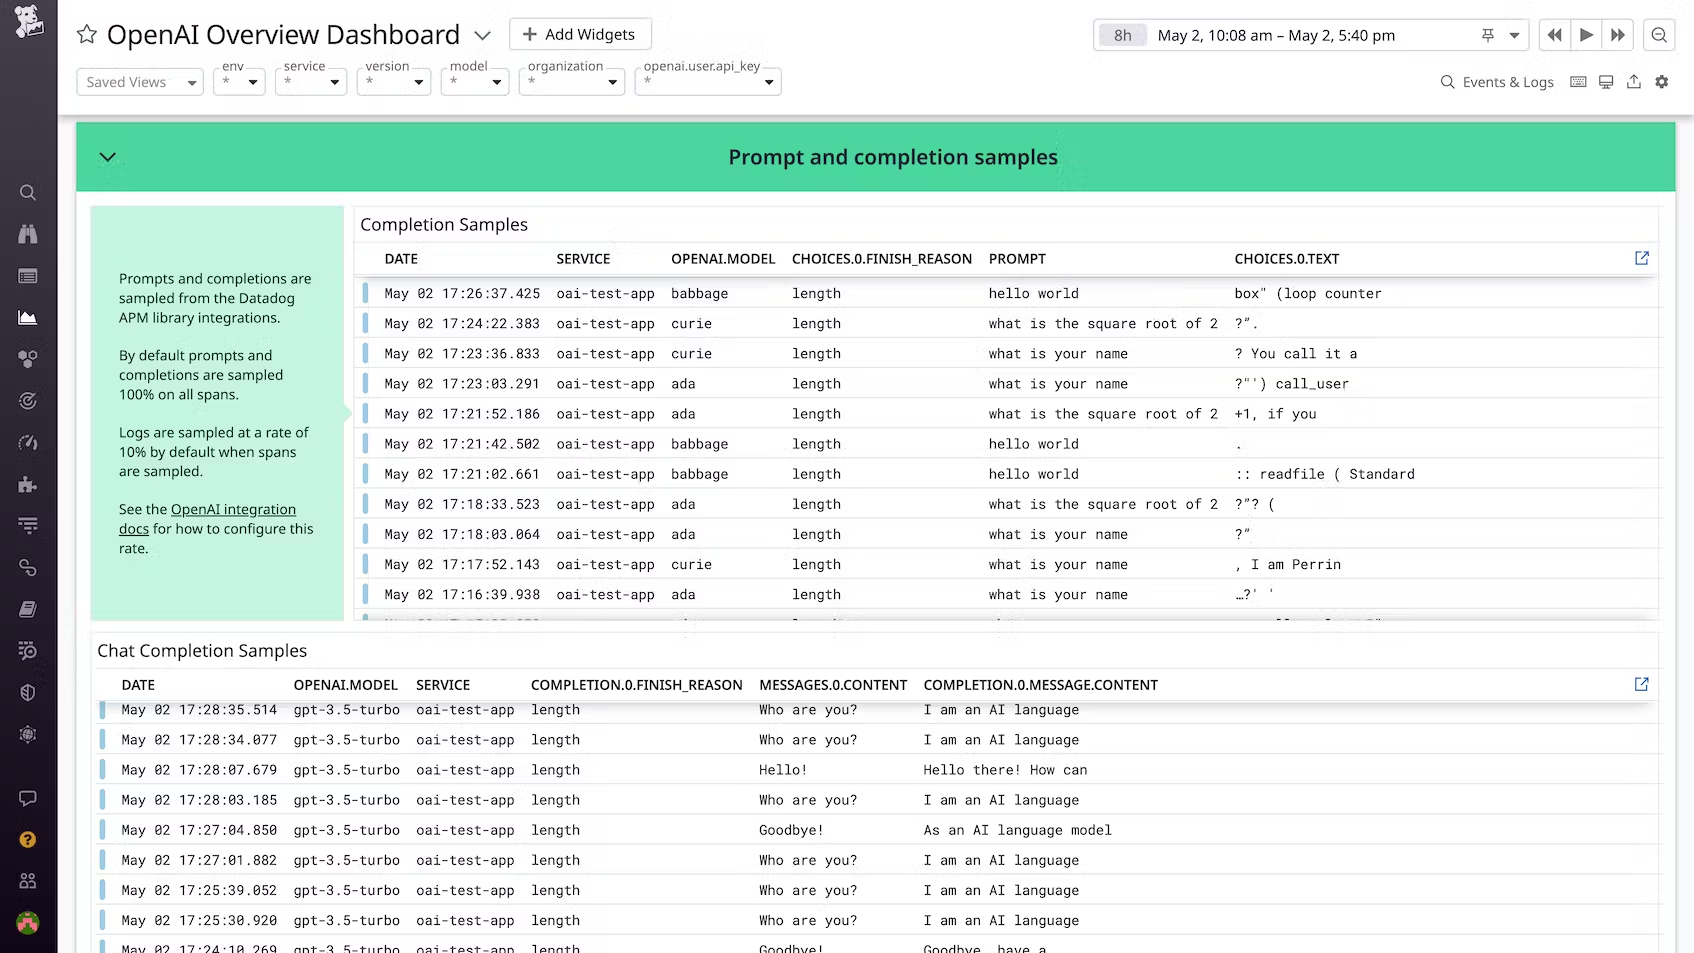
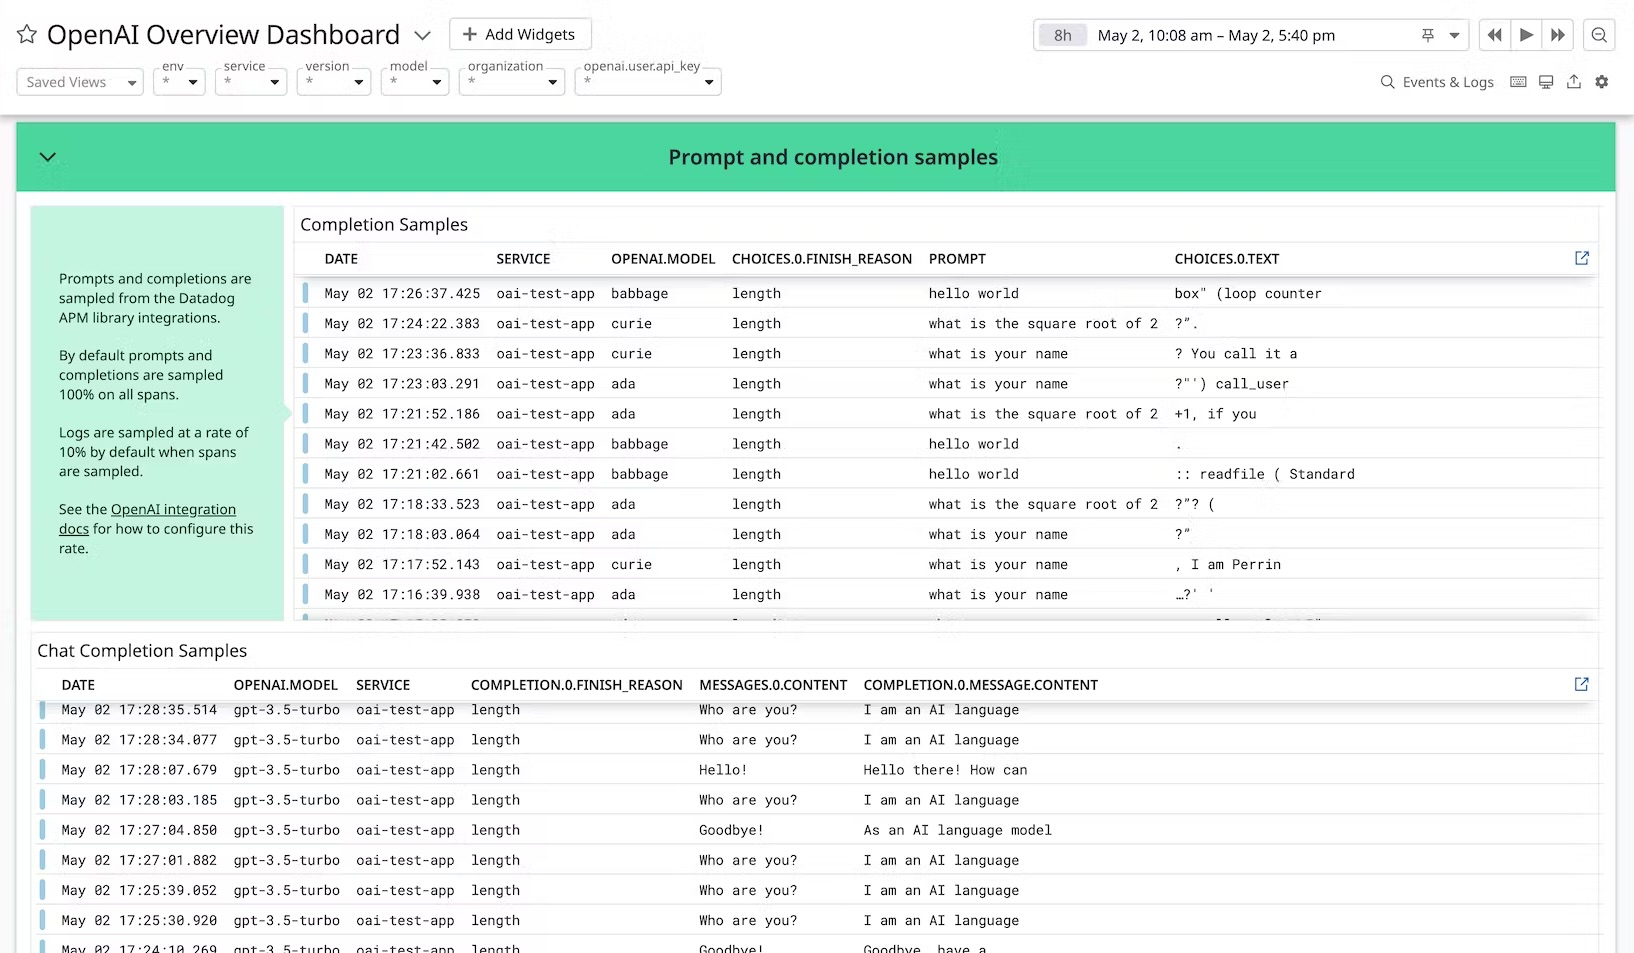
(DOCS-7761) Remove old nav from images

diff --git a/cassandra_nodetool/README.md b/cassandra_nodetool/README.md
@@ -80,7 +80,7 @@ Need help? Contact [Datadog support][11].
 - [How to collect Cassandra metrics][13]
 - [Monitoring Cassandra with Datadog][14]
 
-[1]: https://raw.githubusercontent.com/DataDog/integrations-core/master/cassandra_nodetool/images/cassandra_dashboard.png
+[1]: https://raw.githubusercontent.com/DataDog/integrations-core/master/cassandra_nodetool/images/cassandra_dashboard_2.png
 [2]: https://github.com/DataDog/integrations-core/tree/master/cassandra
 [3]: https://app.datadoghq.com/account/settings/agent/latest
 [4]: https://docs.datadoghq.com/agent/guide/agent-configuration-files/#agent-configuration-directory

diff --git a/lighttpd/README.md b/lighttpd/README.md
@@ -102,7 +102,7 @@ Need help? Contact [Datadog support][10].
 - [Monitor Lighttpd web server metrics with Datadog][11].
 
 
-[1]: https://raw.githubusercontent.com/DataDog/integrations-core/master/lighttpd/images/lighttpddashboard.png
+[1]: https://raw.githubusercontent.com/DataDog/integrations-core/master/lighttpd/images/lighttpddashboard_2.png
 [2]: https://app.datadoghq.com/account/settings/agent/latest
 [3]: https://docs.datadoghq.com/agent/guide/agent-configuration-files/#agent-configuration-directory
 [4]: https://github.com/DataDog/integrations-core/blob/master/lighttpd/datadog_checks/lighttpd/data/conf.yaml.example

diff --git a/tomcat/README.md b/tomcat/README.md
@@ -251,7 +251,7 @@ Additional helpful documentation, links, and articles:
 - [Key metrics for monitoring Tomcat][16]
 - [Analyzing Tomcat logs and metrics with Datadog][17]
 
-[1]: https://raw.githubusercontent.com/DataDog/integrations-core/master/tomcat/images/tomcat_dashboard.png
+[1]: https://raw.githubusercontent.com/DataDog/integrations-core/master/tomcat/images/tomcat_dashboard_2.png
 [2]: https://app.datadoghq.com/account/settings/agent/latest
 [3]: https://tomcat.apache.org/tomcat-10.1-doc/monitoring.html
 [4]: https://docs.datadoghq.com/agent/guide/agent-configuration-files/#agent-configuration-directory

diff --git a/mysql/README.md b/mysql/README.md
@@ -567,7 +567,7 @@ Additional helpful documentation, links, and articles:
 
 - [Monitoring MySQL performance metrics][31]
 
-[1]: https://raw.githubusercontent.com/DataDog/integrations-core/master/mysql/images/mysql-dash-dd.png
+[1]: https://raw.githubusercontent.com/DataDog/integrations-core/master/mysql/images/mysql-dash-dd-2.png
 [4]: https://app.datadoghq.com/account/settings/agent/latest
 [5]: https://dev.mysql.com/doc/refman/8.0/en/creating-accounts.html
 [6]: https://docs.datadoghq.com/integrations/faq/mysql-localhost-error-localhost-vs-127-0-0-1/

diff --git a/cassandra/README.md b/cassandra/README.md
@@ -86,7 +86,7 @@ Need help? Contact [Datadog support][4].
 - [How to collect Cassandra metrics][15]
 - [Monitoring Cassandra with Datadog][16]
 
-[1]: https://raw.githubusercontent.com/DataDog/integrations-core/master/cassandra/images/cassandra_dashboard.png
+[1]: https://raw.githubusercontent.com/DataDog/integrations-core/master/cassandra/images/cassandra_dashboard_2.png
 [2]: https://app.datadoghq.com/account/settings/agent/latest
 [3]: https://docs.datadoghq.com/integrations/java/
 [4]: https://docs.datadoghq.com/help/
